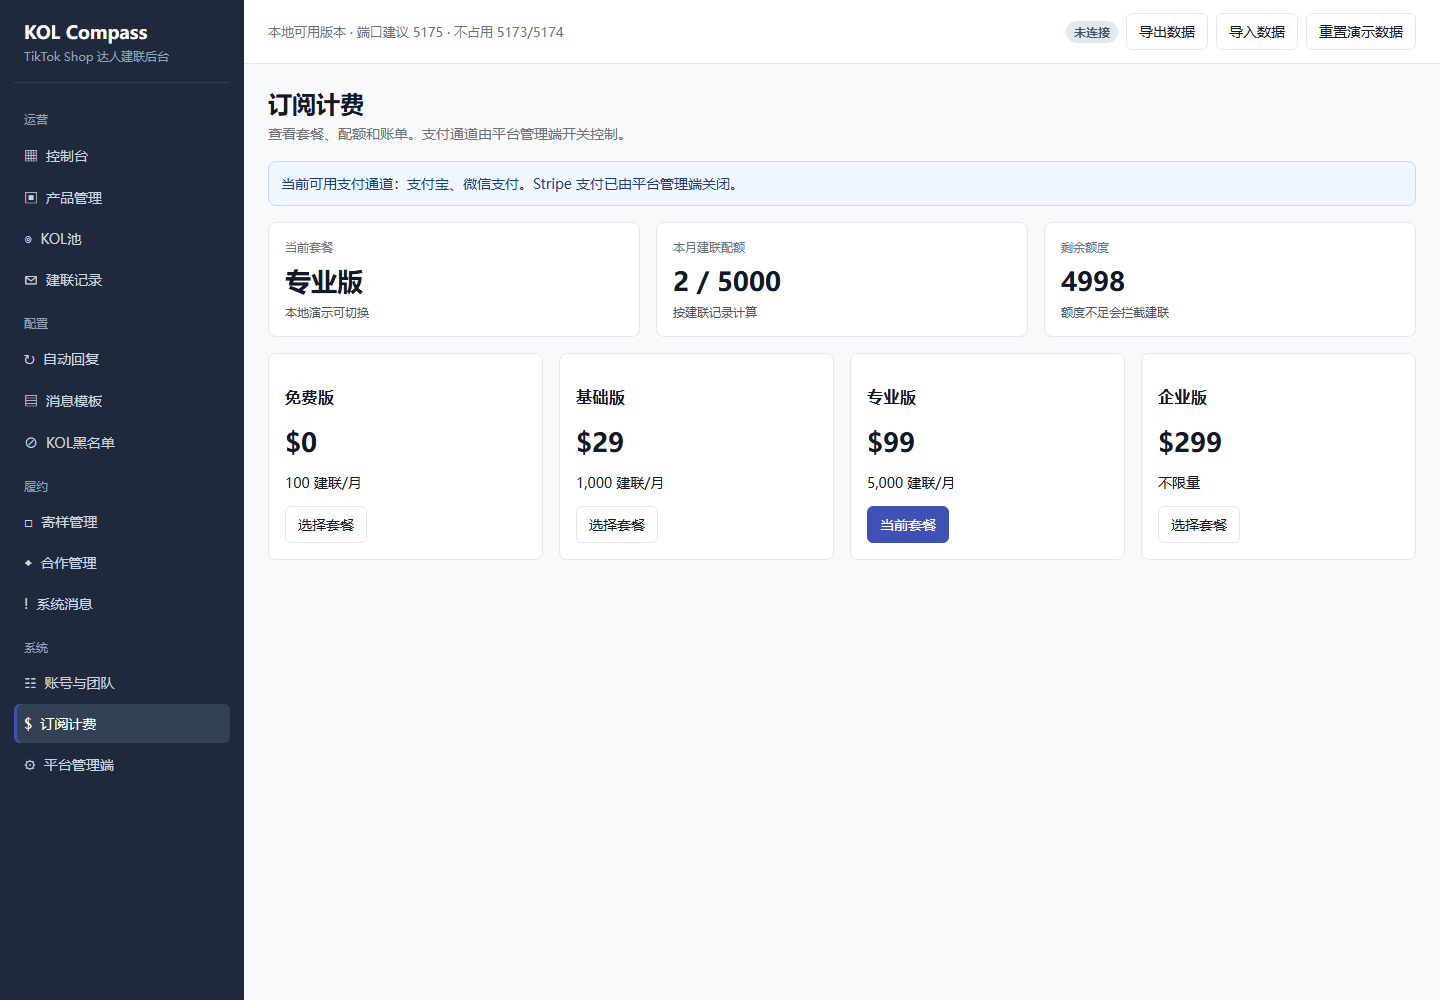
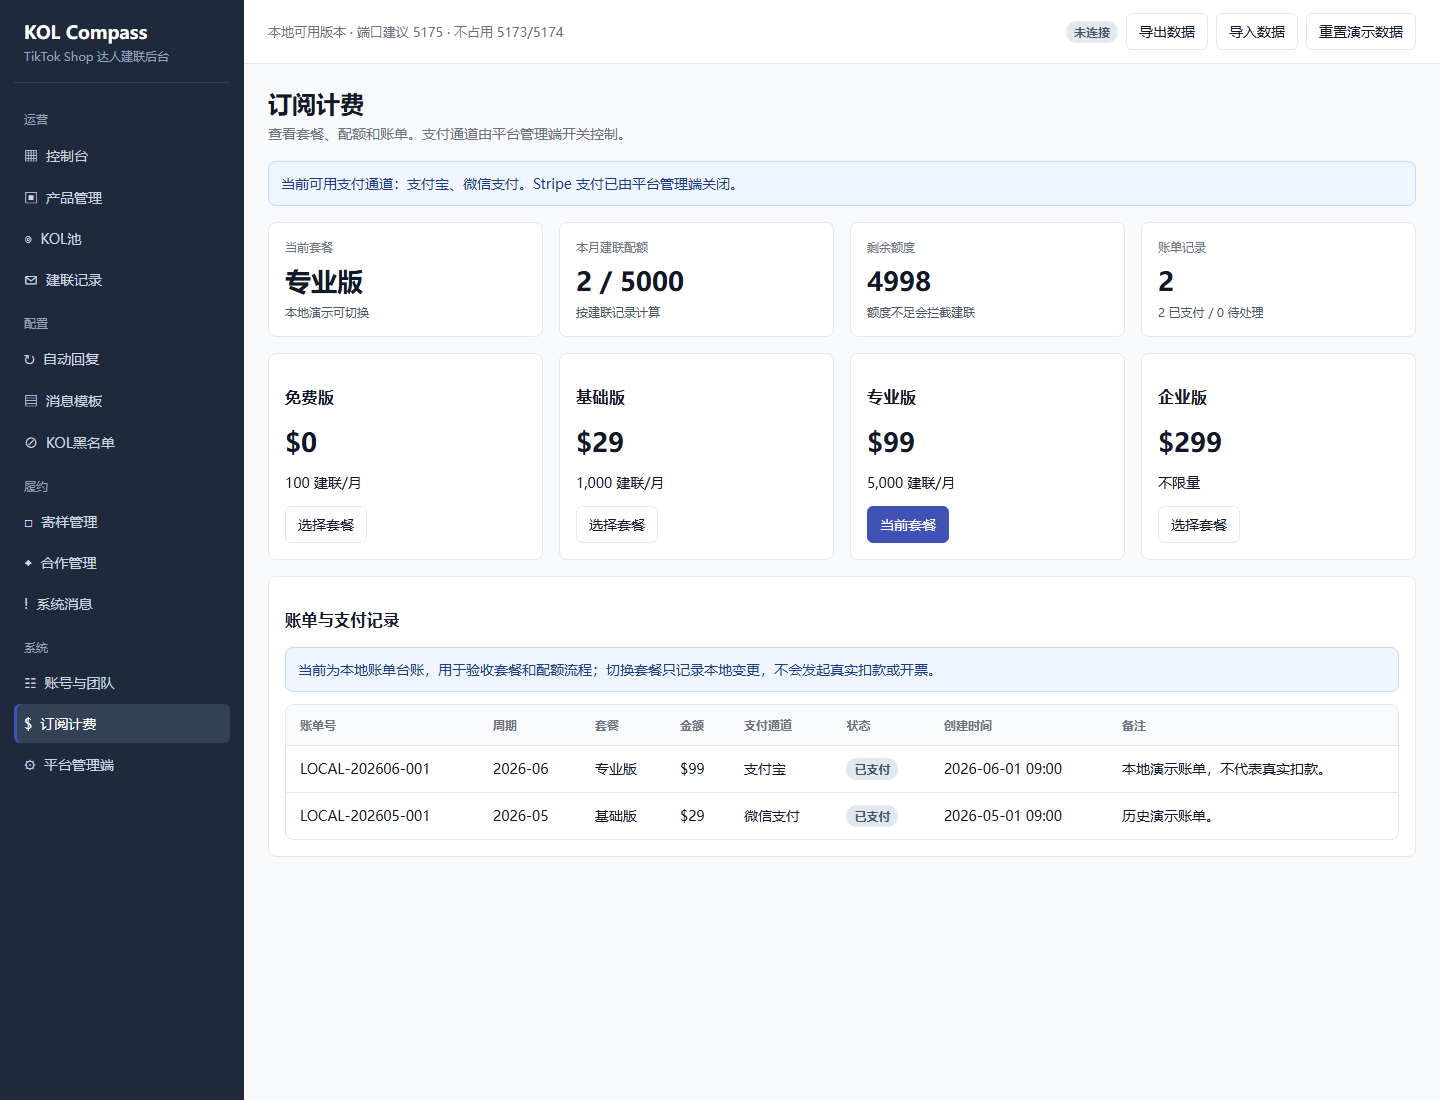
Add billing ledger boundary

diff --git a/app.js b/app.js
@@ -183,6 +183,10 @@ const seed = {
     { id: 2, merchant: "FitWave SG", store: "新加坡店", contact: "bd@fitwave.example", plan: "基础版", apiStatus: "配置不完整", status: "资料补充", appliedAt: "2026-06-19 15:10", notes: "缺少 OAuth Redirect URL 和 Affiliate 权限截图。" },
     { id: 3, merchant: "Nina Fashion", store: "印尼店", contact: "nina@example.com", plan: "专业版", apiStatus: "待同步", status: "已通过", appliedAt: "2026-06-18 09:45", notes: "可进入本地试用，真实 API 同步仍需 OAuth。" },
   ],
+  billingRecords: [
+    { id: 1, plan: "专业版", amount: "$99", channel: "支付宝", status: "已支付", invoiceNo: "LOCAL-202606-001", period: "2026-06", createdAt: "2026-06-01 09:00", note: "本地演示账单，不代表真实扣款。" },
+    { id: 2, plan: "基础版", amount: "$29", channel: "微信支付", status: "已支付", invoiceNo: "LOCAL-202605-001", period: "2026-05", createdAt: "2026-05-01 09:00", note: "历史演示账单。" },
+  ],
   operationLogs: [
     { id: 1, operator: "System", action: "初始化", target: "KOL Compass", detail: "创建本地演示数据。", ip: "127.0.0.1", at: "2026-06-21 09:00" },
   ],
@@ -209,6 +213,7 @@ function normalizeState(next) {
   if (Array.isArray(merged.autoReplies)) merged.autoReplies = merged.autoReplies.map(normalizeAutoReply);
   if (Array.isArray(merged.team)) merged.team = merged.team.map(normalizeTeamMember);
   if (!Array.isArray(merged.merchantApplications)) merged.merchantApplications = [];
+  if (!Array.isArray(merged.billingRecords)) merged.billingRecords = [];
   if (!Array.isArray(merged.bulkCreatorIds)) merged.bulkCreatorIds = [];
   if (!Array.isArray(merged.syncLogs)) merged.syncLogs = [];
   if (!Array.isArray(merged.operationLogs)) merged.operationLogs = [];
@@ -1012,13 +1017,17 @@ function renderTeam() {
 
 function renderBilling() {
   const stripeEnabled = Boolean(state.settings.featureSwitches.stripePayment);
+  const records = state.billingRecords || [];
+  const paid = records.filter((x) => x.status === "已支付").length;
+  const pending = records.filter((x) => x.status !== "已支付").length;
   return `
     ${pageHead("订阅计费", "查看套餐、配额和账单。支付通道由平台管理端开关控制。")}
     <div class="notice" style="margin-bottom:16px">当前可用支付通道：支付宝、微信支付${stripeEnabled ? "、Stripe" : "。Stripe 支付已由平台管理端关闭"}。</div>
-    <div class="grid grid-3" style="margin-bottom:16px">
+    <div class="grid grid-4" style="margin-bottom:16px">
       ${stat("当前套餐", state.settings.planName, "本地演示可切换")}
       ${stat("本月建联配额", quotaLabel(), "按建联记录计算")}
       ${stat("剩余额度", Number.isFinite(quotaRemaining()) ? quotaRemaining() : "不限", "额度不足会拦截建联")}
+      ${stat("账单记录", records.length, `${paid} 已支付 / ${pending} 待处理`)}
     </div>
     <div class="grid grid-4">
       ${["免费版|$0|100 建联/月", "基础版|$29|1,000 建联/月", "专业版|$99|5,000 建联/月", "企业版|$299|不限量"].map((raw) => {
@@ -1026,6 +1035,20 @@ function renderBilling() {
         const active = state.settings.planName === name;
         return `<div class="card"><h3>${name}</h3><div class="stat-value">${price}</div><p>${quota}</p><button class="btn ${active ? "primary" : ""}" onclick="selectPlan('${name}')">${active ? "当前套餐" : "选择套餐"}</button></div>`;
       }).join("")}
+    </div>
+    <div class="card" style="margin-top:16px">
+      <h3>账单与支付记录</h3>
+      <div class="notice" style="margin-bottom:12px">当前为本地账单台账，用于验收套餐和配额流程；切换套餐只记录本地变更，不会发起真实扣款或开票。</div>
+      ${table(["账单号", "周期", "套餐", "金额", "支付通道", "状态", "创建时间", "备注"], records.map((row) => [
+        escapeHtml(row.invoiceNo),
+        escapeHtml(row.period),
+        escapeHtml(row.plan),
+        escapeHtml(row.amount),
+        escapeHtml(row.channel),
+        badge(row.status),
+        escapeHtml(row.createdAt),
+        escapeHtml(row.note || "-"),
+      ]))}
     </div>
   `;
 }
@@ -1425,7 +1448,23 @@ function toggleFeatureSwitch(key) {
 
 function selectPlan(name) {
   if (!Object.prototype.hasOwnProperty.call(planQuotas, name)) return;
+  const previous = state.settings.planName;
   state.settings.planName = name;
+  const price = { "免费版": "$0", "基础版": "$29", "专业版": "$99", "企业版": "$299" }[name] || "$0";
+  state.billingRecords = state.billingRecords || [];
+  state.billingRecords.unshift({
+    id: Date.now(),
+    plan: name,
+    amount: price,
+    channel: "本地切换",
+    status: price === "$0" ? "无需支付" : "待支付",
+    invoiceNo: `LOCAL-${Date.now()}`,
+    period: monthKey(),
+    createdAt: nowText(),
+    note: `由 ${previous} 切换为 ${name}；本地记录不代表真实扣款或开票。`,
+  });
+  state.billingRecords = state.billingRecords.slice(0, 50);
+  logOperation("套餐切换", name, `由 ${previous} 切换为 ${name}；支付状态：本地记录`);
   pushMessage("订阅套餐", `当前套餐已切换为 ${name}，本月建联配额：${Number.isFinite(outreachQuota()) ? outreachQuota() : "不限"}。`);
   saveState();
   render();

diff --git a/smoke-test.js b/smoke-test.js
@@ -89,6 +89,7 @@ async function main() {
   assert("sync logs are visible and recorded", ["syncLogs", "addSyncLog"].every((name) => app.includes(name)) && app.includes("同步日志"));
   assert("system message center supports read state and filters", ["messageType", "messageRead", "markMessageRead", "markAllMessagesRead", "deleteMessage", "pruneSystemMessages"].every((name) => app.includes(name)) && app.includes("本地保留最近 90 天"));
   assert("platform feature switches govern channels", ["featureSwitches", "toggleFeatureSwitch", "channelOptionsForCreators", "validateChannelForCreators"].every((name) => app.includes(name)) && app.includes("Stripe 支付已由平台管理端关闭"));
+  assert("billing ledger and local payment boundary supported", app.includes("billingRecords") && app.includes("账单与支付记录") && app.includes("不会发起真实扣款或开票") && app.includes("本地记录不代表真实扣款或开票"));
   assert("admin merchant onboarding workflow supported", ["merchantApplications", "approveMerchantApplication", "rejectMerchantApplication", "resetMerchantApplication", "merchantApplicationActions"].every((name) => app.includes(name)) && app.includes("商家入驻审批") && app.includes("不会调用真实商户系统、支付系统或 TikTok API"));
   assert("team management and operation logs supported", ["rolePermissions", "operationLogs", "logOperation", "openTeamMemberModal", "saveTeamMember", "toggleTeamMember"].every((name) => app.includes(name)) && app.includes("操作日志") && app.includes("可访问店铺"));
   assert("products cannot be manually faked", app.includes("本地版本不允许手动新增") && app.includes("产品数据应来自 TikTok Shop Partner API"));

diff --git a/docs/PROJECT_MEMORY.md b/docs/PROJECT_MEMORY.md
@@ -1,6 +1,6 @@
 # KOL Compass 项目记忆
 
-更新时间：2026-06-22 05:19 CST
+更新时间：2026-06-22 05:24 CST
 
 ## 当前工作目录
 
@@ -45,7 +45,7 @@ node smoke-test.js
 - 账号与团队截图 `smoke-team.png` 已生成并目视检查通过，成员管理、角色权限、可访问店铺和操作日志可见。
 - KOL 池截图 `smoke-kol-pool.png` 已重新生成并目视检查通过，建联配额、24 小时限发和不感兴趣入口可见。
 - KOL 黑名单截图 `smoke-blacklist.png` 已生成并目视检查通过，统计、搜索、拉黑原因、拉黑时间和移出入口可见。
-- 订阅计费截图 `smoke-billing.png` 已重新生成并目视检查通过，套餐切换和配额剩余额度可见。
+- 订阅计费截图 `smoke-billing.png` 已重新生成并目视检查通过，套餐切换、配额、账单与支付记录台账可见。
 - 自动回复截图 `smoke-auto-reply.png` 已生成并目视检查通过，规则配置和本地测试入口可见。
 - 平台管理端截图 `smoke-admin.png` 已重新生成并目视检查通过，功能开关、商家统计、入驻审批台账、API 配置可见。
 - 订阅计费截图 `smoke-billing.png` 已生成并目视检查通过，Stripe 关闭状态可见。
@@ -70,7 +70,7 @@ node smoke-test.js
 - KOL 池已支持按关键词、达人类型、类目、地区、粉丝量级、回复率区间筛选。
 - KOL 池和建联保存已执行建联安全规则：月配额、同一达人 24 小时限发、不感兴趣 30 天屏蔽；建联记录和 KOL 池均可标记不感兴趣。
 - KOL 黑名单已支持统计、达人/类目/地区/原因搜索、拉黑原因、拉黑时间、移出黑名单；拉黑和移出动作写入系统消息和操作日志。
-- 订阅计费页已支持本地切换套餐，并即时影响建联配额显示和建联拦截。
+- 订阅计费页已支持本地切换套餐，并即时影响建联配额显示和建联拦截；账单与支付记录为本地台账，切换套餐只写本地记录、系统消息和操作日志，不会发起真实扣款或开票。
 - 建联记录已支持按达人/产品/消息关键词、沟通状态、渠道筛选。
 - 合作管理已支持按达人/产品/负责人/备注搜索，并支持全部/已产出/未产出筛选。
 - 平台管理端已支持保存 TikTok API 本地配置：client_key、OAuth Redirect URL、scope、最近检查时间；client_secret 明确不保存到前端。

diff --git a/docs/CLAUDE_CONTINUE.md b/docs/CLAUDE_CONTINUE.md
@@ -31,7 +31,7 @@
 - `stop-5175.bat`
 - `smoke-test.js`
 
-最近一次心跳检查：2026-06-22 05:19 CST，当前分支已连接 GitHub 远端，`node --check app.js` 与 `node smoke-test.js` 通过。本轮增强 KOL 黑名单：统计、达人/类目/地区/原因搜索、拉黑原因、拉黑时间、移出日志；截图 `smoke-blacklist.png` 已生成并目视检查通过。
+最近一次心跳检查：2026-06-22 05:24 CST，当前分支已连接 GitHub 远端，`node --check app.js` 与 `node smoke-test.js` 通过。本轮增强订阅计费：账单与支付记录本地台账、套餐切换写入本地账单/系统消息/操作日志、明确不发起真实扣款或开票；截图 `smoke-billing.png` 已重新生成并目视检查通过。
 
 启动：
 
@@ -132,6 +132,8 @@ P0：
    - Email / WhatsApp 关闭后，新建联和回复渠道不展示对应入口
    - 保存建联/回复时必须二次校验渠道开关和达人联系方式
    - Stripe 关闭后，订阅页必须明确展示 Stripe 不可用
+   - 订阅计费必须展示套餐、配额、账单与支付记录本地台账
+   - 切换套餐只写本地账单、系统消息和操作日志，不发起真实扣款或开票
    - 商家统计和入驻审批台账必须可见
    - 入驻审批可通过、驳回、恢复待审，并写入系统消息和操作日志
    - 入驻审批动作只更新本地状态，不调用真实商户系统、支付系统或 TikTok API

diff --git a/docs/ACCEPTANCE_REPORT.md b/docs/ACCEPTANCE_REPORT.md
@@ -188,6 +188,25 @@ KOL黑名单用于避免重复触达不可合作达人。
 
 `smoke-blacklist.png`
 
+### 订阅计费
+
+订阅计费用于查看套餐、建联配额、支付通道和账单记录。
+
+已包含：
+
+- 当前套餐
+- 建联配额与剩余额度
+- 套餐切换
+- Stripe 开关状态提示
+- 账单与支付记录本地台账
+- 套餐切换写入本地账单、系统消息和操作日志
+
+账单台账只用于本地验收；切换套餐不会发起真实扣款或开票。
+
+验收截图：
+
+`smoke-billing.png`
+
 ## 已执行测试
 
 命令：
@@ -221,6 +240,7 @@ node smoke-test.js
 - 平台管理端功能开关会约束建联和回复渠道，关闭 Email/WhatsApp 后不再作为新操作渠道
 - 订阅页读取 Stripe 支付开关，关闭时明确展示不可用状态
 - 订阅页支持本地切换套餐，切换后即时影响建联配额
+- 订阅页支持账单与支付记录本地台账，切换套餐不发起真实扣款或开票
 - 系统消息包含同步日志，展示 API/同步状态、原因和时间
 - 系统消息支持类型筛选、已读筛选、全部已读、单条已读、删除，并本地保留最近 90 天
 - KOL详情和达人编辑弹窗支持录入 Email / WhatsApp

diff --git a/README.md b/README.md
@@ -81,7 +81,7 @@ KOL CSV 支持表头：
 - 消息模板支持新增、编辑、删除，并提示可用变量。
 - 账号与团队支持新增/编辑/启禁用成员、角色权限摘要、可访问店铺配置和操作日志。
 - 建联记录支持从沟通状态推进到寄样或合作；寄样管理支持状态总览、达人/产品/物流单号搜索、状态筛选，并可从已签收样品进入合作管理。
-- 订阅计费支持本地切换套餐，并即时影响建联配额提示和建联拦截。
+- 订阅计费支持本地切换套餐，并即时影响建联配额提示和建联拦截；账单与支付记录为本地台账，切换套餐不会发起真实扣款或开票。
 - 已覆盖控制台、产品管理、KOL池、建联记录、自动回复、消息模板、黑名单、寄样管理、合作管理、系统消息、账号团队、订阅计费、平台管理端。
 - 合作管理是内容追踪唯一主入口，包含已产出/未产出、视频、直播、GMV、订单、佣金、ROI 和自定义标签筛选。
 - KOL详情只展示基础资料、联系方式、标签备注、沟通记录和合作入口，不展示视频/直播/GMV/ROI。
